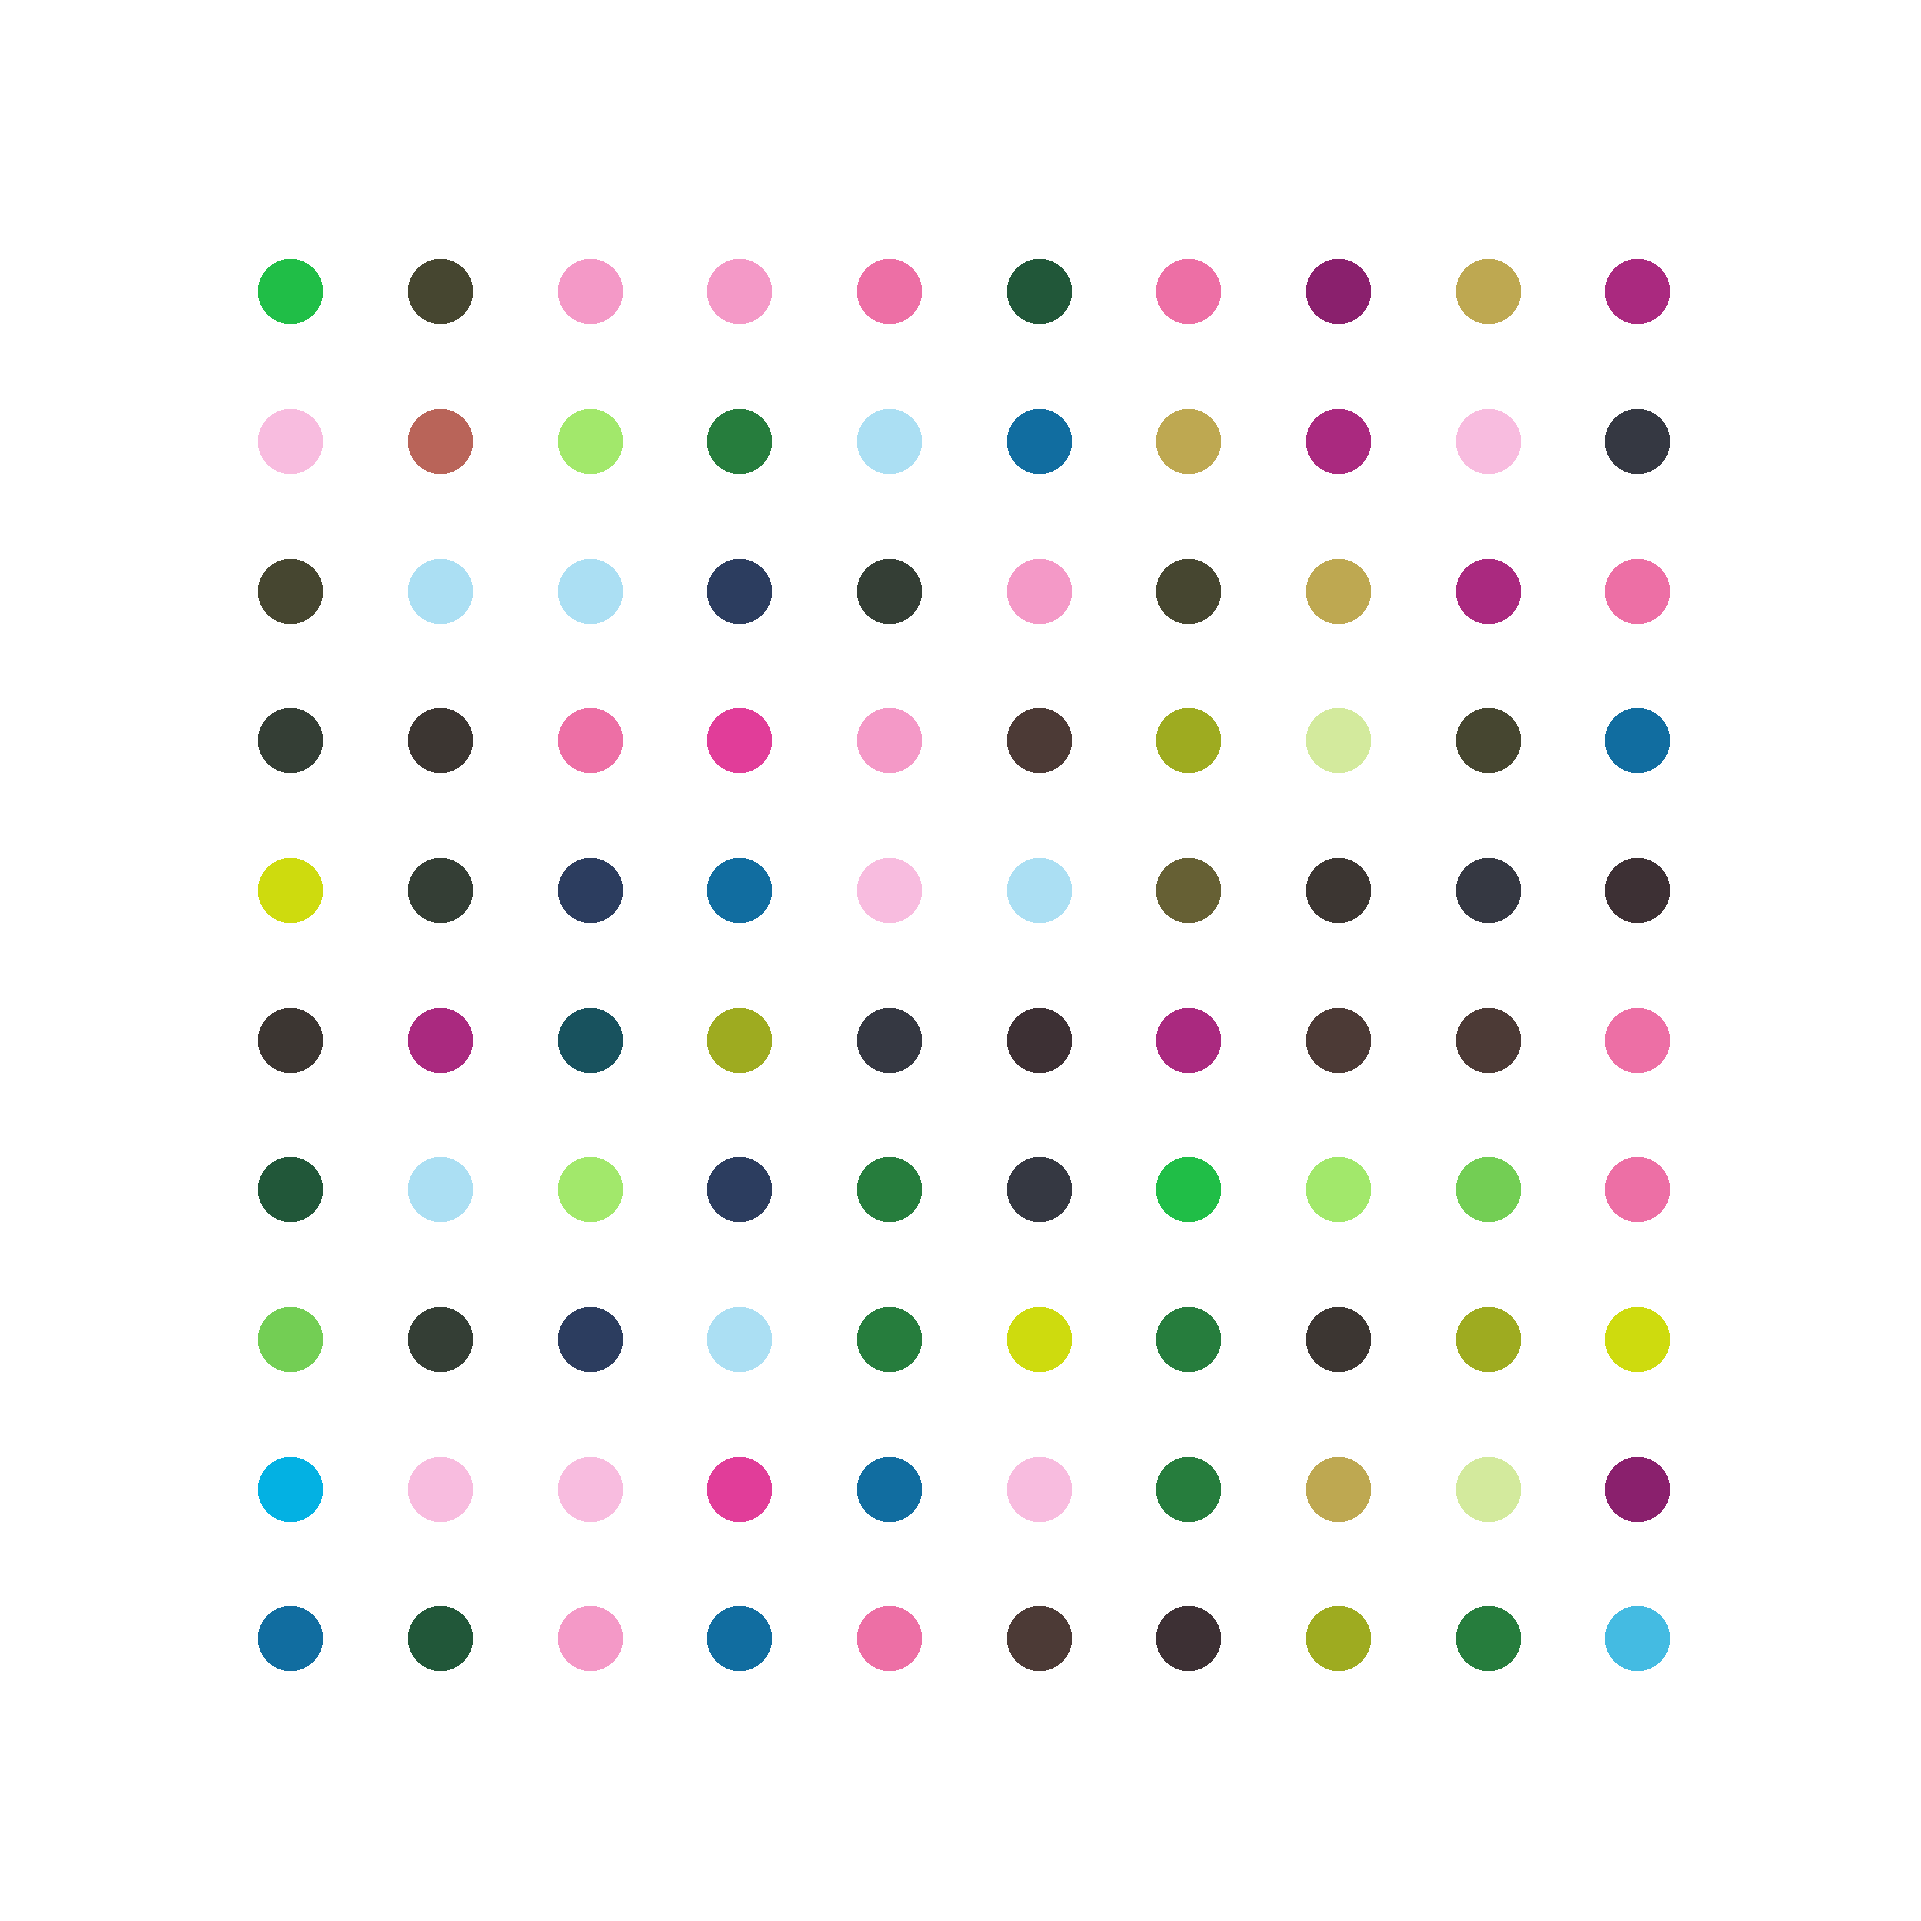
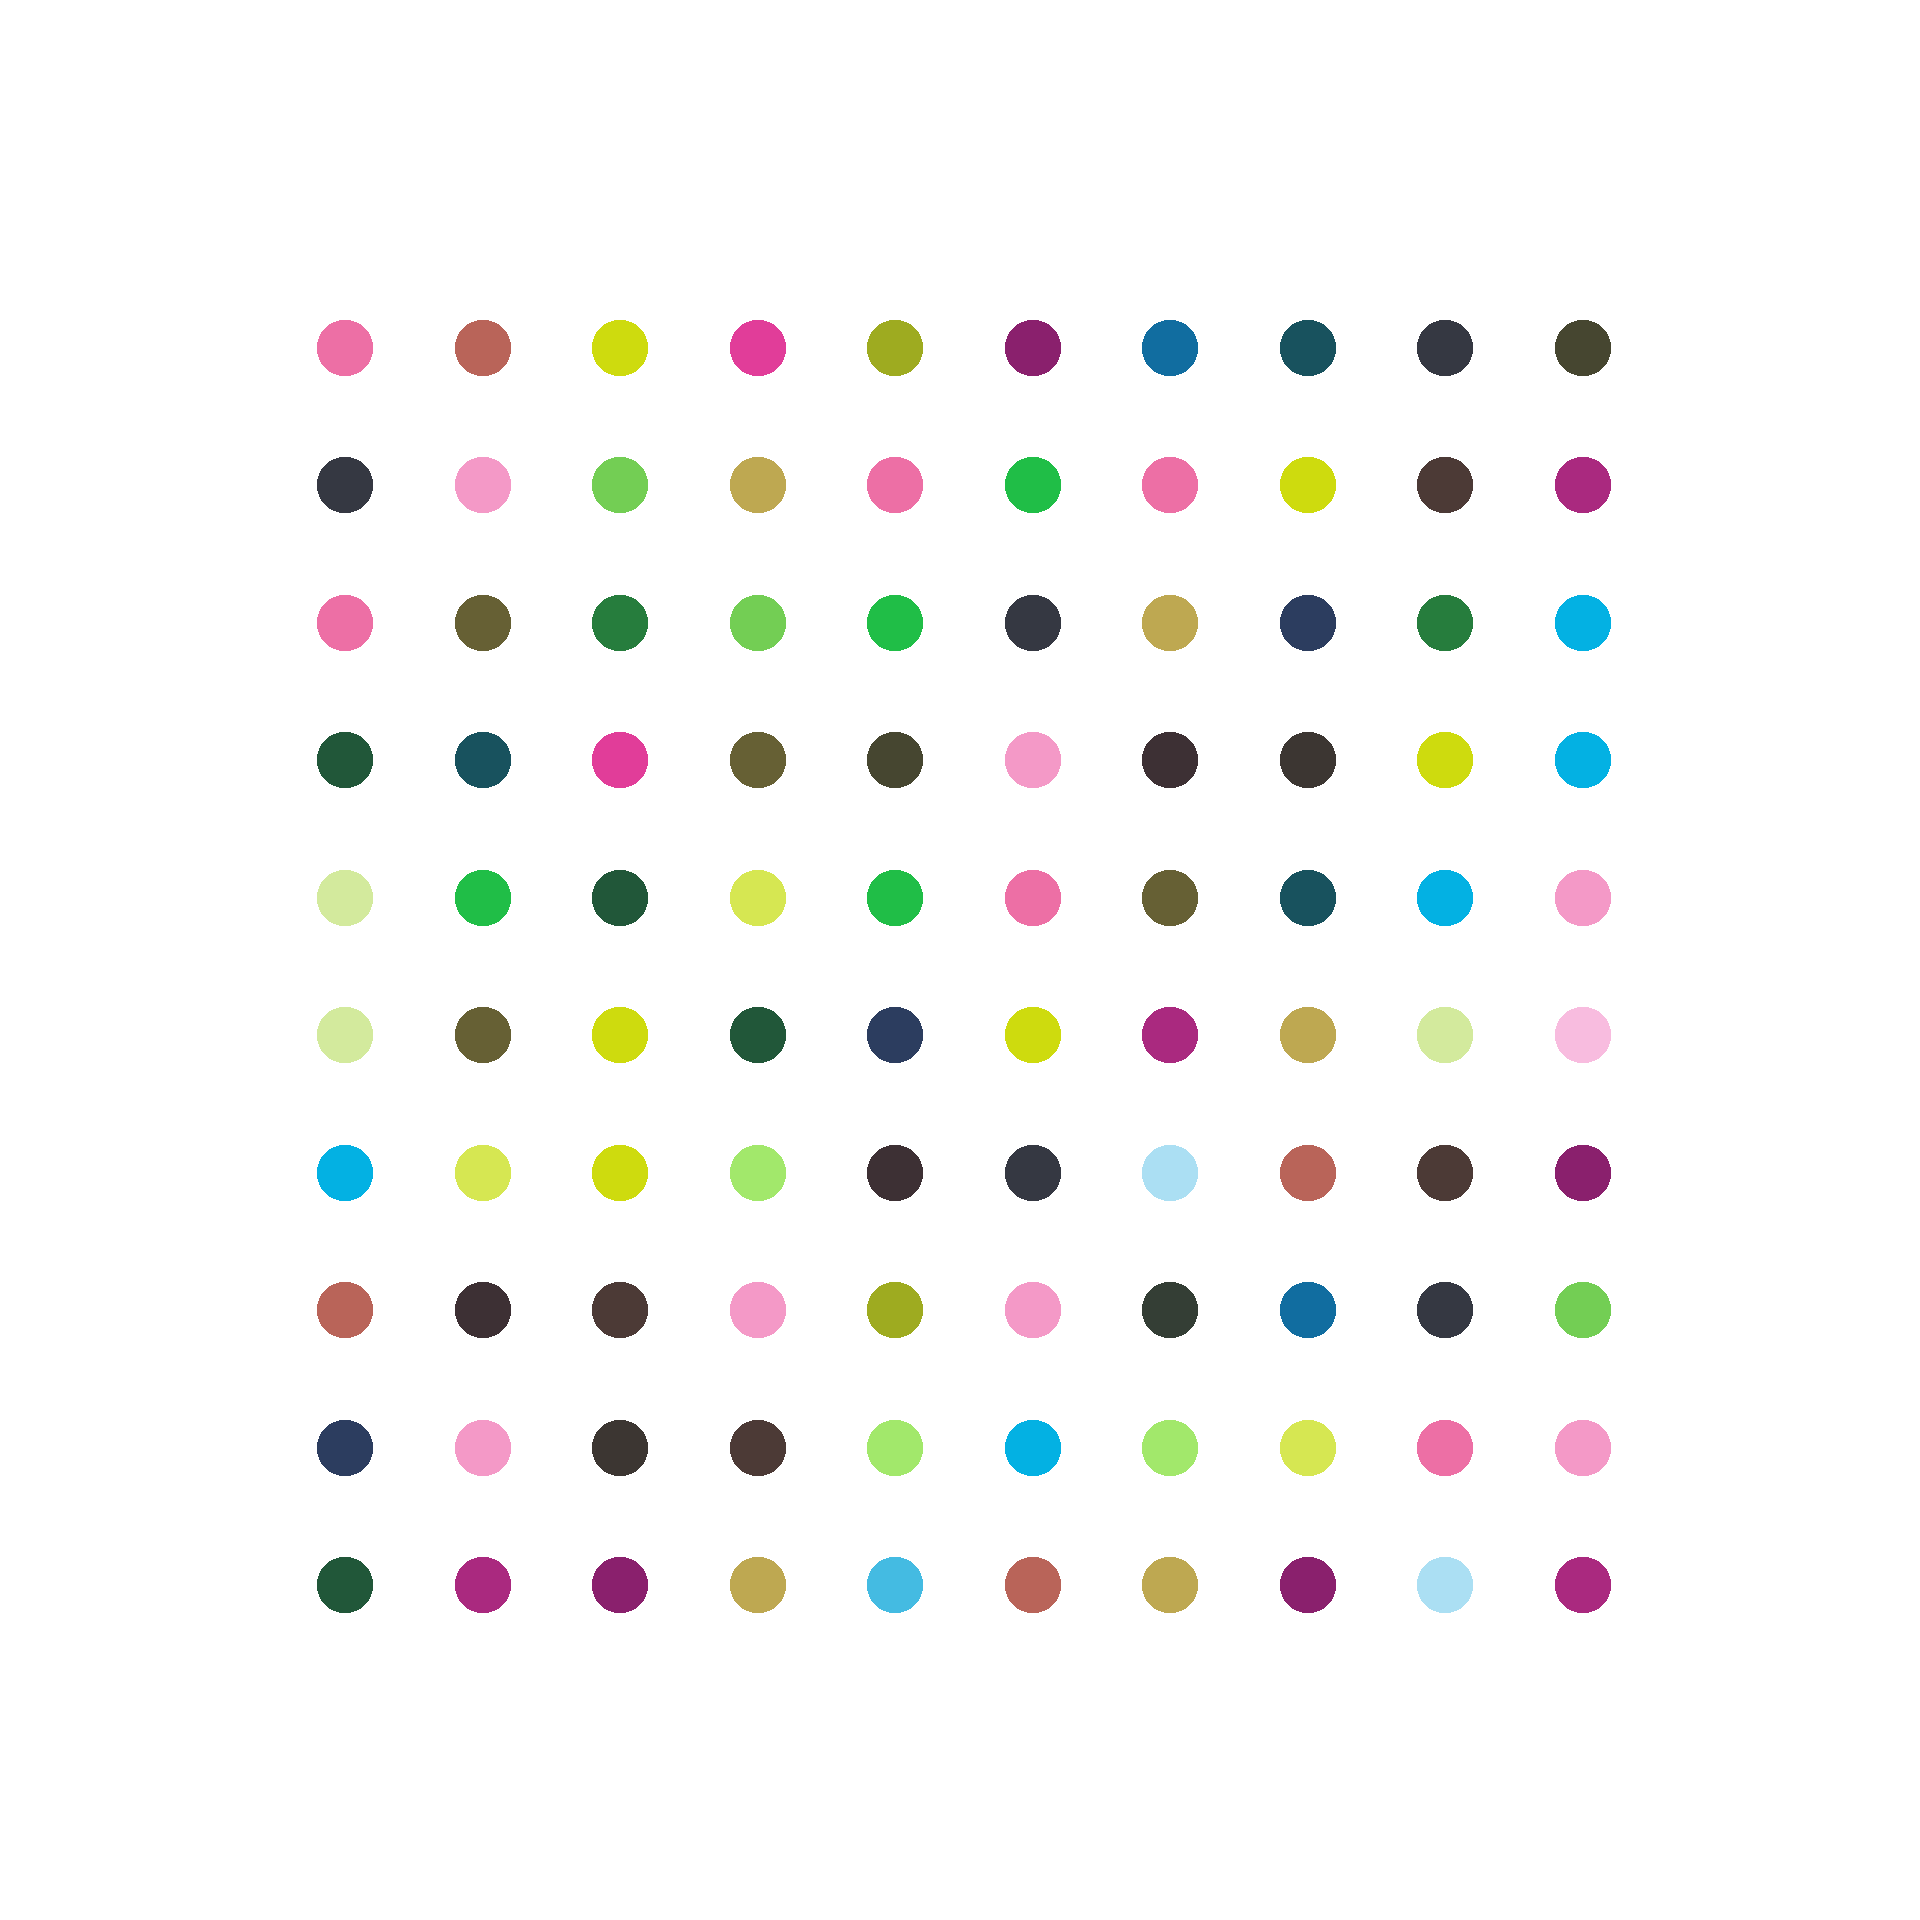
make dots smaller again

diff --git a/spot-painting-generator.py b/spot-painting-generator.py
@@ -41,9 +41,9 @@ turtle.penup()
 turtle.speed(0)
 turtle.hideturtle()
 
-dotsize = 30
+dotsize = 20
 dots_per_row = 10
-space_between_dots = 70
+space_between_dots = 50
 
 screen = Screen()
 sc = dots_per_row * space_between_dots + 200
